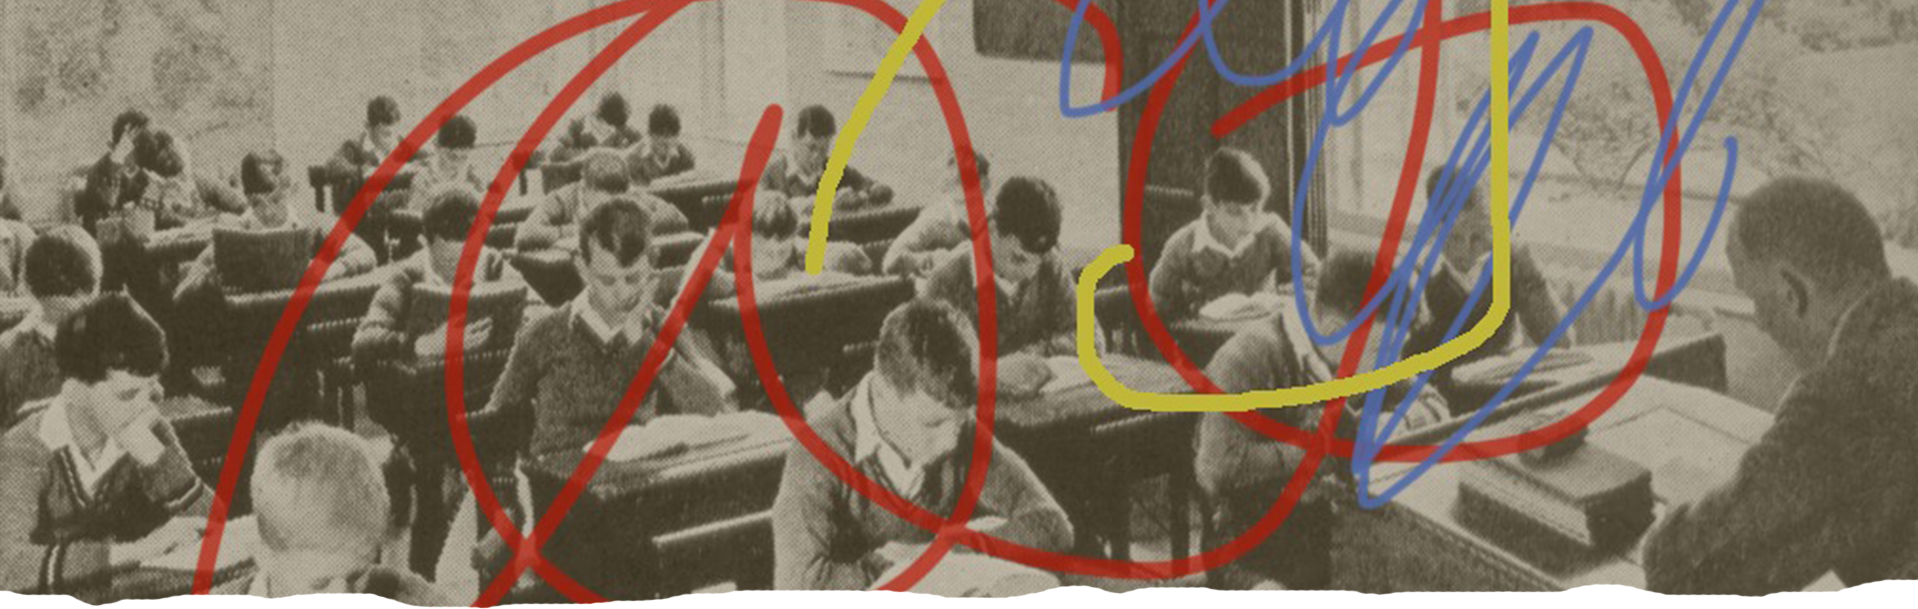
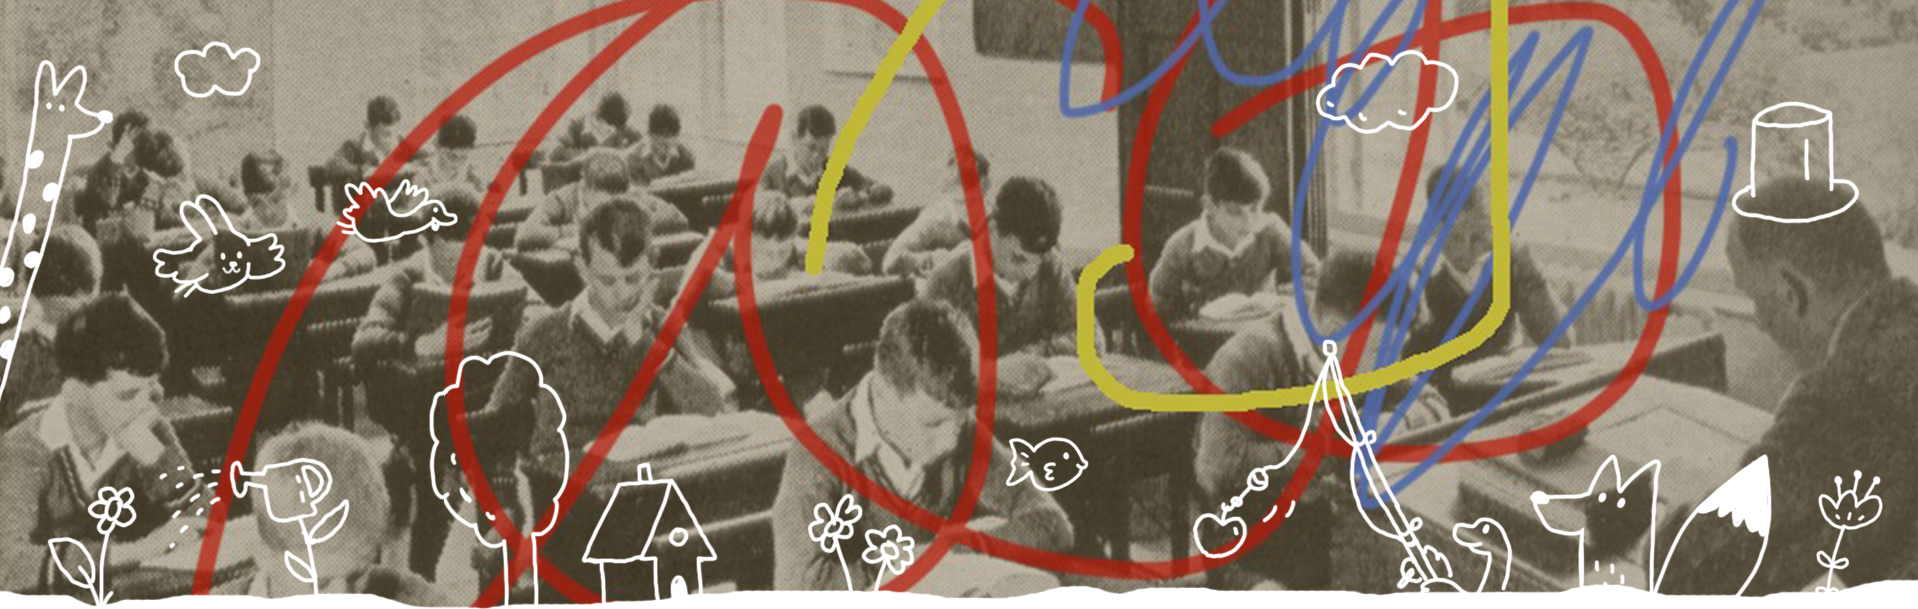
mobile responsive, added Feedback buttons, Drawings on Hero poster

diff --git a/app/scss/static-page.scss b/app/scss/static-page.scss
@@ -17,6 +17,9 @@
             width: 100px;
             padding: 20px;
             font-size: 20px;
+            .underline {
+                text-decoration: underline;
+            }
         }
     }
     .hero__overlay--container {
@@ -26,7 +29,7 @@
         margin-top: 25px;
         .hero__mini-text { 
             color: white;
-            font-family: 'Schoolbell', 'Open Sans', sans-serif;;
+            font-family: 'Schoolbell', 'Open Sans', sans-serif;
             text-align: center;
             font-size: 32px;
             font-weight: 600;
@@ -76,7 +79,7 @@
     }
     .quote {
         text-align: center;
-        margin-bottom: 80px;
+        margin-bottom: 30px;
     }
     .signature {
         text-align: center;
@@ -150,14 +153,12 @@
     }
     .note__social-buttons {
         .btn__note--social {
-            width: 70px;
-            height: 70px;
-            margin-right: 12px;
+            width: 57px;
+            height: 57px;
+            margin-right: 10px;
             float: left;
+            padding : 14px;
             img {
-                margin-top: 18px;
-                -webkit-filter: brightness(0) invert(1);
-                filter: brightness(0) invert(1);
             }
         }
     }
